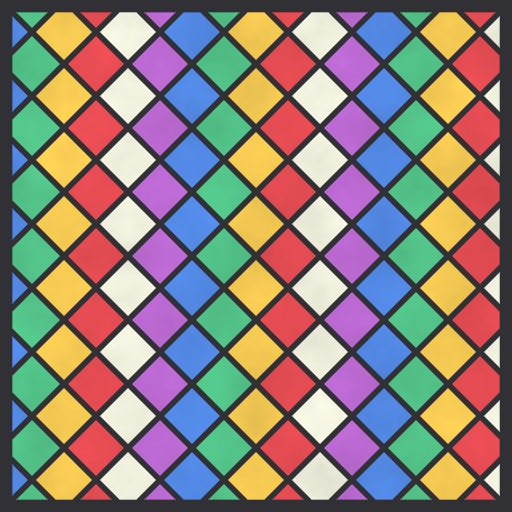
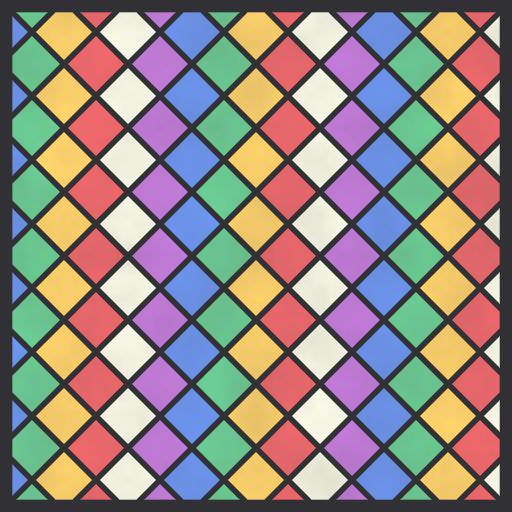
Weight what a blended surface sends by how much it covers
Every lobe, the layers, the traced reflection and the emission of a blended
surface take its alpha, so a card that covers nothing where its texture is
clear shows nothing there; glass is a surface that covers whole and transmits.
The demo's glass and the importers say glass by transmission.

diff --git a/.agents/skills/mirai-imports/references/imports.md b/.agents/skills/mirai-imports/references/imports.md
@@ -759,7 +759,8 @@ heights to its units and decides the size of its terrain.
 - Slots: one per `usemtl` name in order of first appearance in the mesh, also those the MTL does
   not define; the id is the position plus one.
 - MTL: `Kd` (0.8 if missing), `Ke`, `Pr`, `Pm`, `Ns` (without `Pr`, `roughness = 1 - sqrt(Ns/1000)`,
-  as Blender exports), `d`/`Tr` (less than 1 is `blend`), `map_Kd`, `map_Ke` and
+  as Blender exports), `d`/`Tr` (less than 1 is `blend`: coverage, or with a glass `illum` (4, 6,
+  7, 9) transmission `1 − d` and `Ni` as its IOR), `map_Kd`, `map_Ke` and
   `norm`/`map_Bump`/`bump` (with `-bm` for scale), with paths relative to the OBJ. `map_Pr` and
   `map_Pm` are not read.
 
@@ -898,11 +899,12 @@ inherits, variants, sublayers and binary files fail with a `Tool` error that say
   `UsdUVTexture` images (an input with an image leaves its factor at 1) and the mapping of a
   `UsdPrimvarReader_float2` and a `UsdTransform2d`. Metallic and roughness come from a packed image
   (roughness in `g`, metallic in `b`), occlusion from `r` and opacity from the alpha of the color;
-  `opacityThreshold > 0` is `mask` and an opacity below 1, `blend`. `doubleSided`, of the mesh,
-  makes its material `two_sided` (a mesh without one gets a default material that is). `clearcoat`
-  is a white coat with the surface's IOR, as MaterialX builds it. Two materials with the same name:
-  the second is named by its prim path; one without `UsdPreviewSurface` is not imported. Images that
-  `usdcat` does not resolve are searched next to the file.
+  `opacityThreshold > 0` is `mask` and an opacity below 1, `blend`: in the `transparent` mode, the
+  default, glass with transmission `1 − opacity`; in `presence`, coverage. `doubleSided`, of the
+  mesh, makes its material `two_sided` (a mesh without one gets a default material that is).
+  `clearcoat` is a white coat with the surface's IOR, as MaterialX builds it. Two materials with
+  the same name: the second is named by its prim path; one without `UsdPreviewSurface` is not
+  imported. Images that `usdcat` does not resolve are searched next to the file.
 - **Lights** UsdLux on the node of their prim, in the units of `Imported_Light`
   ([units](../../mirai-rendering/references/display.md#units)). Luminance is
   `intensity · 2^exposure · color`, times the color of `colorTemperature` if enabled, and with

diff --git a/.agents/skills/mirai-rendering/references/materials.md b/.agents/skills/mirai-rendering/references/materials.md
@@ -320,9 +320,10 @@ A texture of an asset resides with the levels the GPU samples of it
   shadows. The native BLAS of a cut holds the triangles of the slots the mesh's own rows test as
   a geometry apart; an instance that tests other slots makes every triangle a candidate.
 - The mips of a masked texture keep the proportion of texels that pass the threshold.
-- **Blend (`blend`).** It is drawn over the lit scene. Without transmission it is a layer that
-  covers `alpha` of what is behind it: the transparency attenuates its diffuse part, not its
-  specular highlight.
+- **Blend (`blend`).** It is drawn over the lit scene and covers `alpha` of what is behind it;
+  without transmission what covers hides it. Where it covers nothing there is no surface:
+  everything it sends by itself (lobes, layers, traced reflection, emission) is weighted by
+  `alpha`, previews and an instance's fade included, and the rest of what is behind goes on whole.
 - It casts no shadow and colors no light that crosses it, in the maps or in the rays. It does not
   enter the G-buffer nor appear as a surface in reflections or bounces; the sharp reflections see
   it as a color filter ([glass in rays](#glass-in-rays)).
@@ -537,8 +538,8 @@ tests: the pieces of a mesh, numbered in UV1, fly in with a turn as its `progres
 `transmission` turns a blend material into glass, with the parameters of
 `KHR_materials_transmission`, `KHR_materials_ior` and `KHR_materials_volume` (`render/glass.odin`):
 
-- **Filter.** It does not diffuse: it reflects according to its IOR and lets through the rest of
-  the light from behind multiplied by `mix(white, base color, alpha)`.
+- **Filter.** Where it covers (`alpha`) it does not diffuse: it reflects according to its IOR and
+  lets through the rest of the light from behind multiplied by its base color.
 - **Material layers.** Coat, fuzz, anisotropy, diffuse transmission and unlit are prepared with
   `shading_layers` and composed as over an opaque base (`glass_shading`, `glass_light`). The light
   from behind crosses them once (`shading_through`): the coat leaves to the view what it does not
